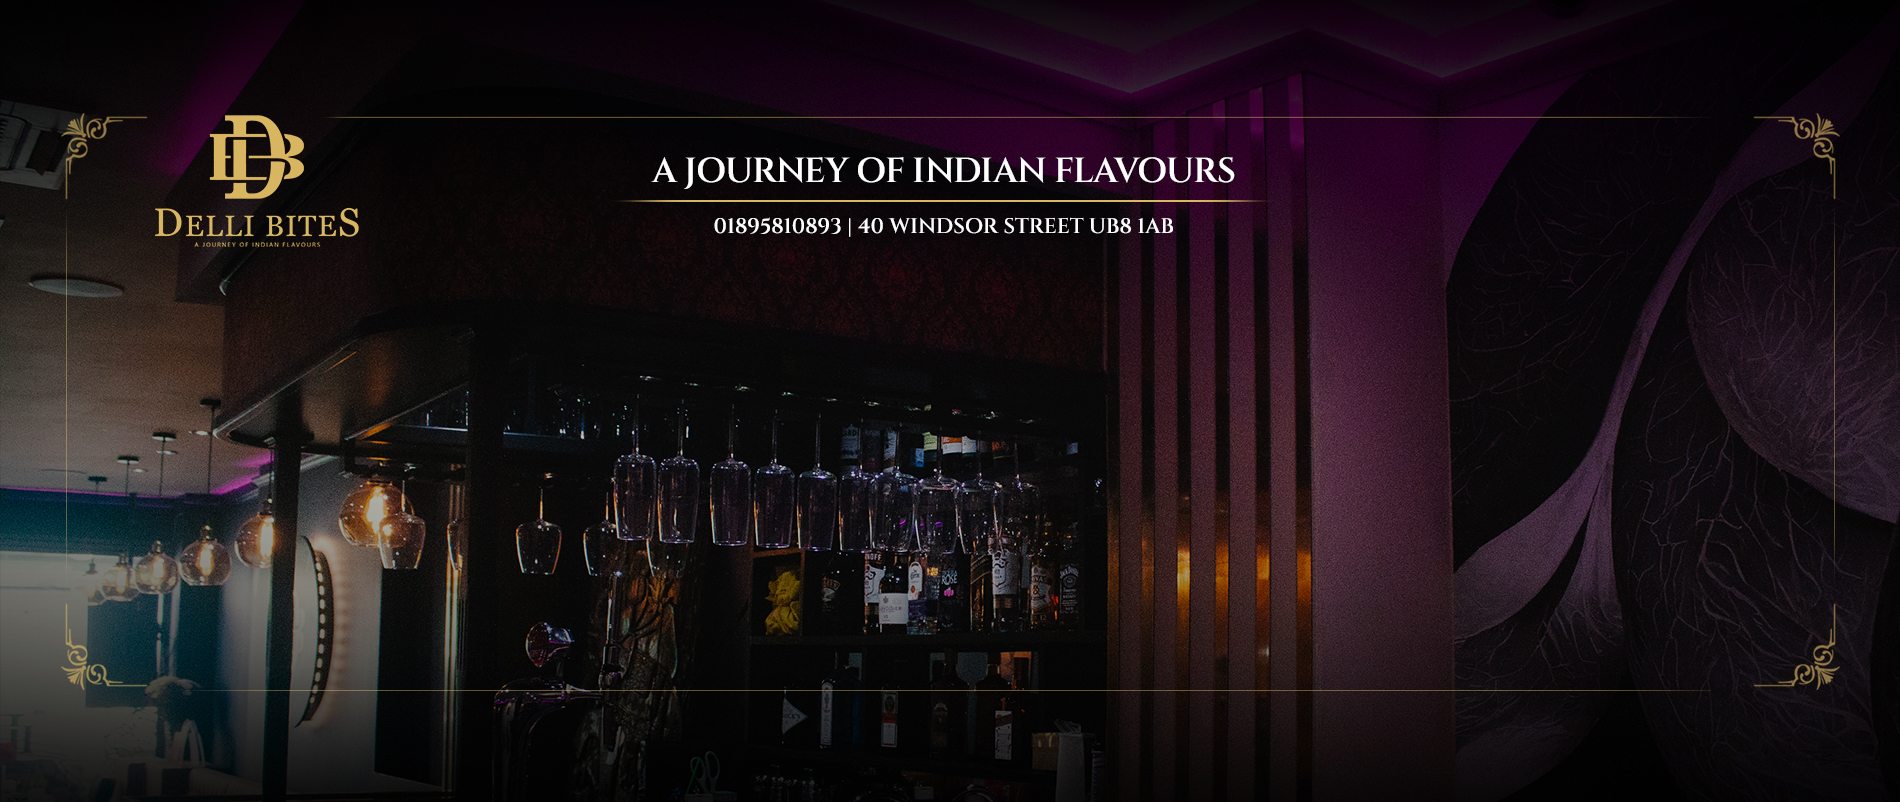
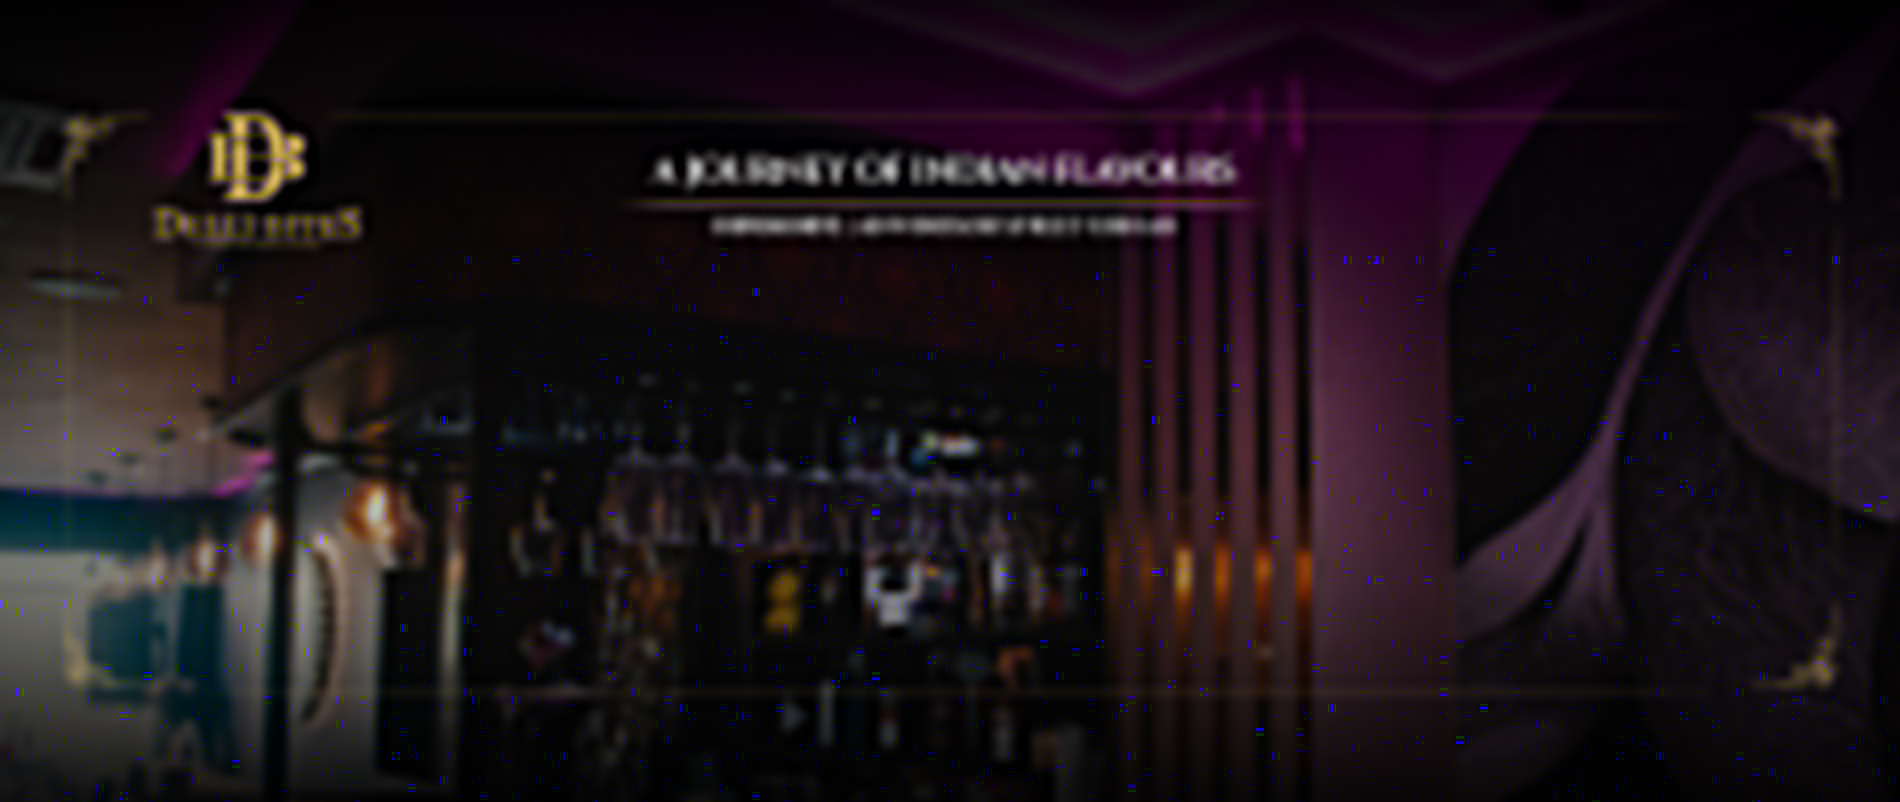
feat: add shadcn + React Bits registry, path alias, utils

diff --git a/vite.config.js b/vite.config.js
@@ -1,9 +1,15 @@
 import { defineConfig } from 'vite'
 import react from '@vitejs/plugin-react'
+import path from 'path'
 
 // https://vitejs.dev/config/
 export default defineConfig({
   plugins: [react()],
+  resolve: {
+    alias: {
+      '@': path.resolve(__dirname, './src'),
+    },
+  },
   server: {
     port: 3000,
     open: true

diff --git a/src/lib/utils.js b/src/lib/utils.js
@@ -1,0 +1,6 @@
+import { clsx } from "clsx";
+import { twMerge } from "tailwind-merge";
+
+export function cn(...inputs) {
+  return twMerge(clsx(inputs));
+}
